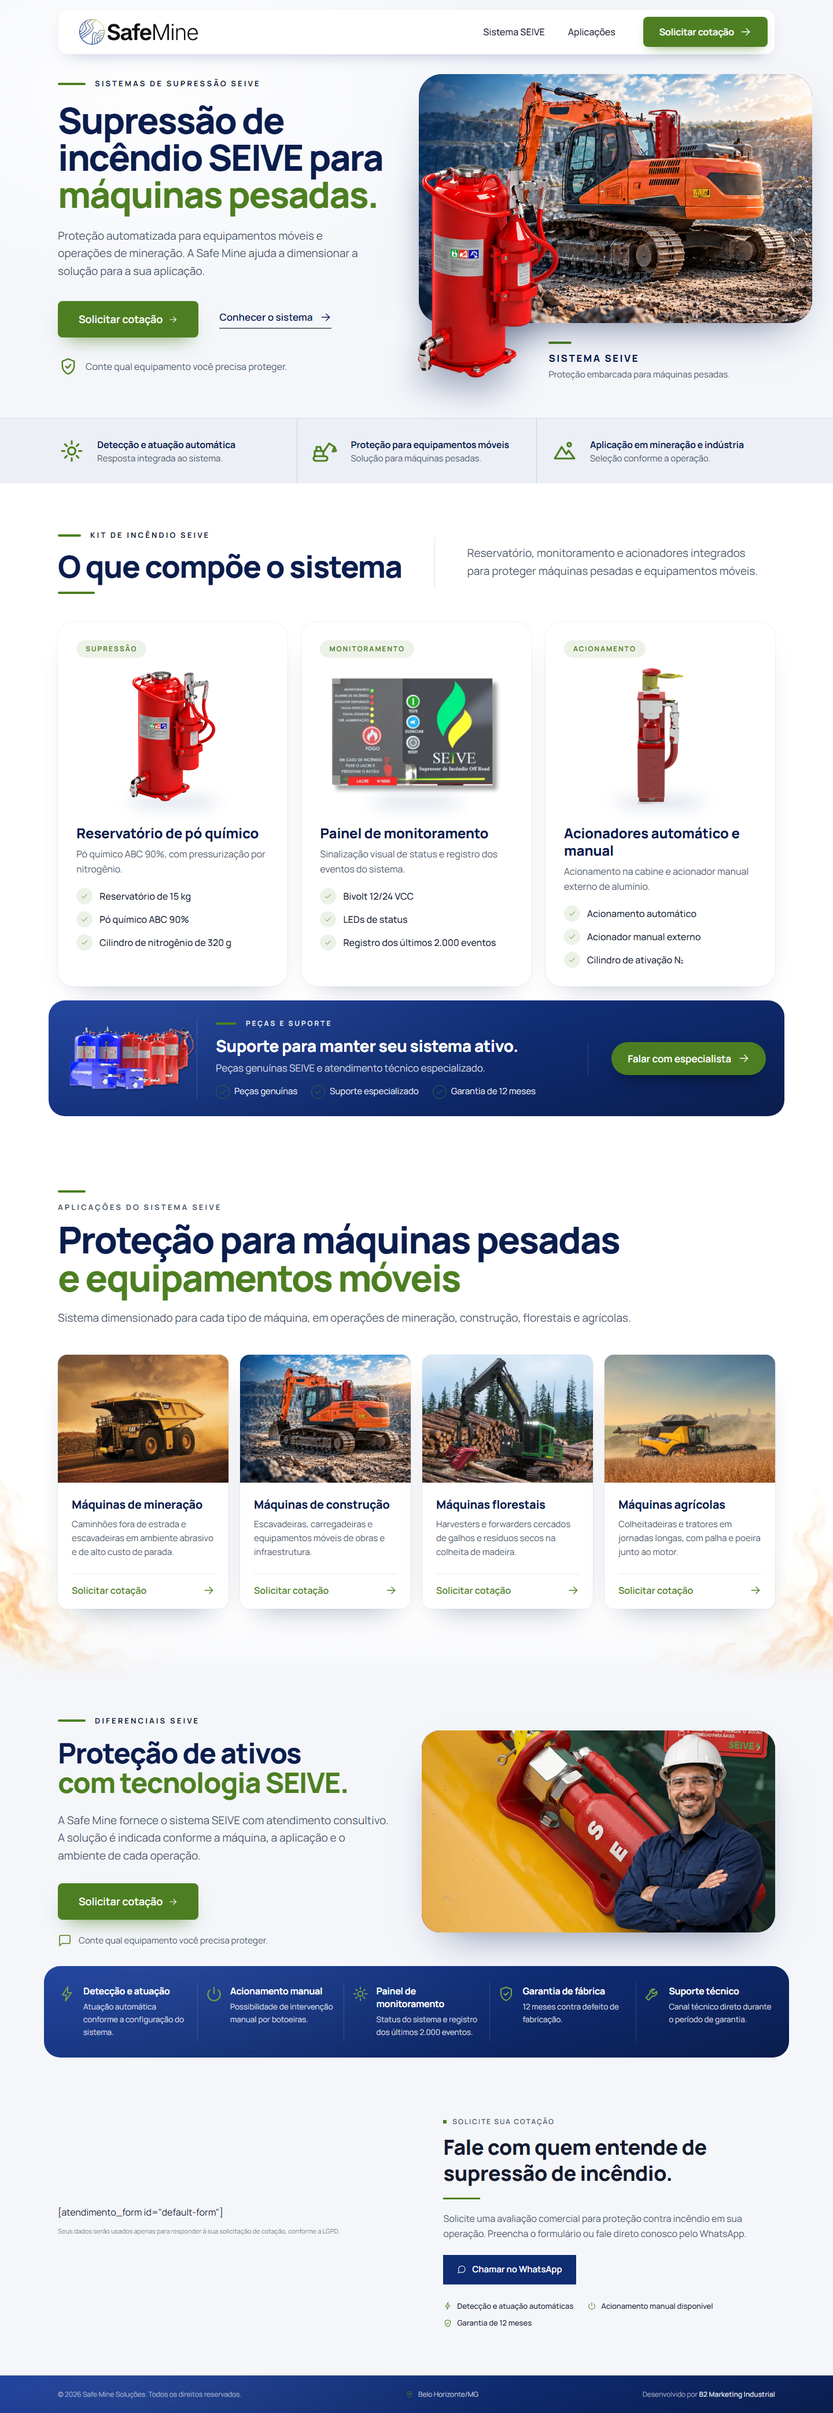
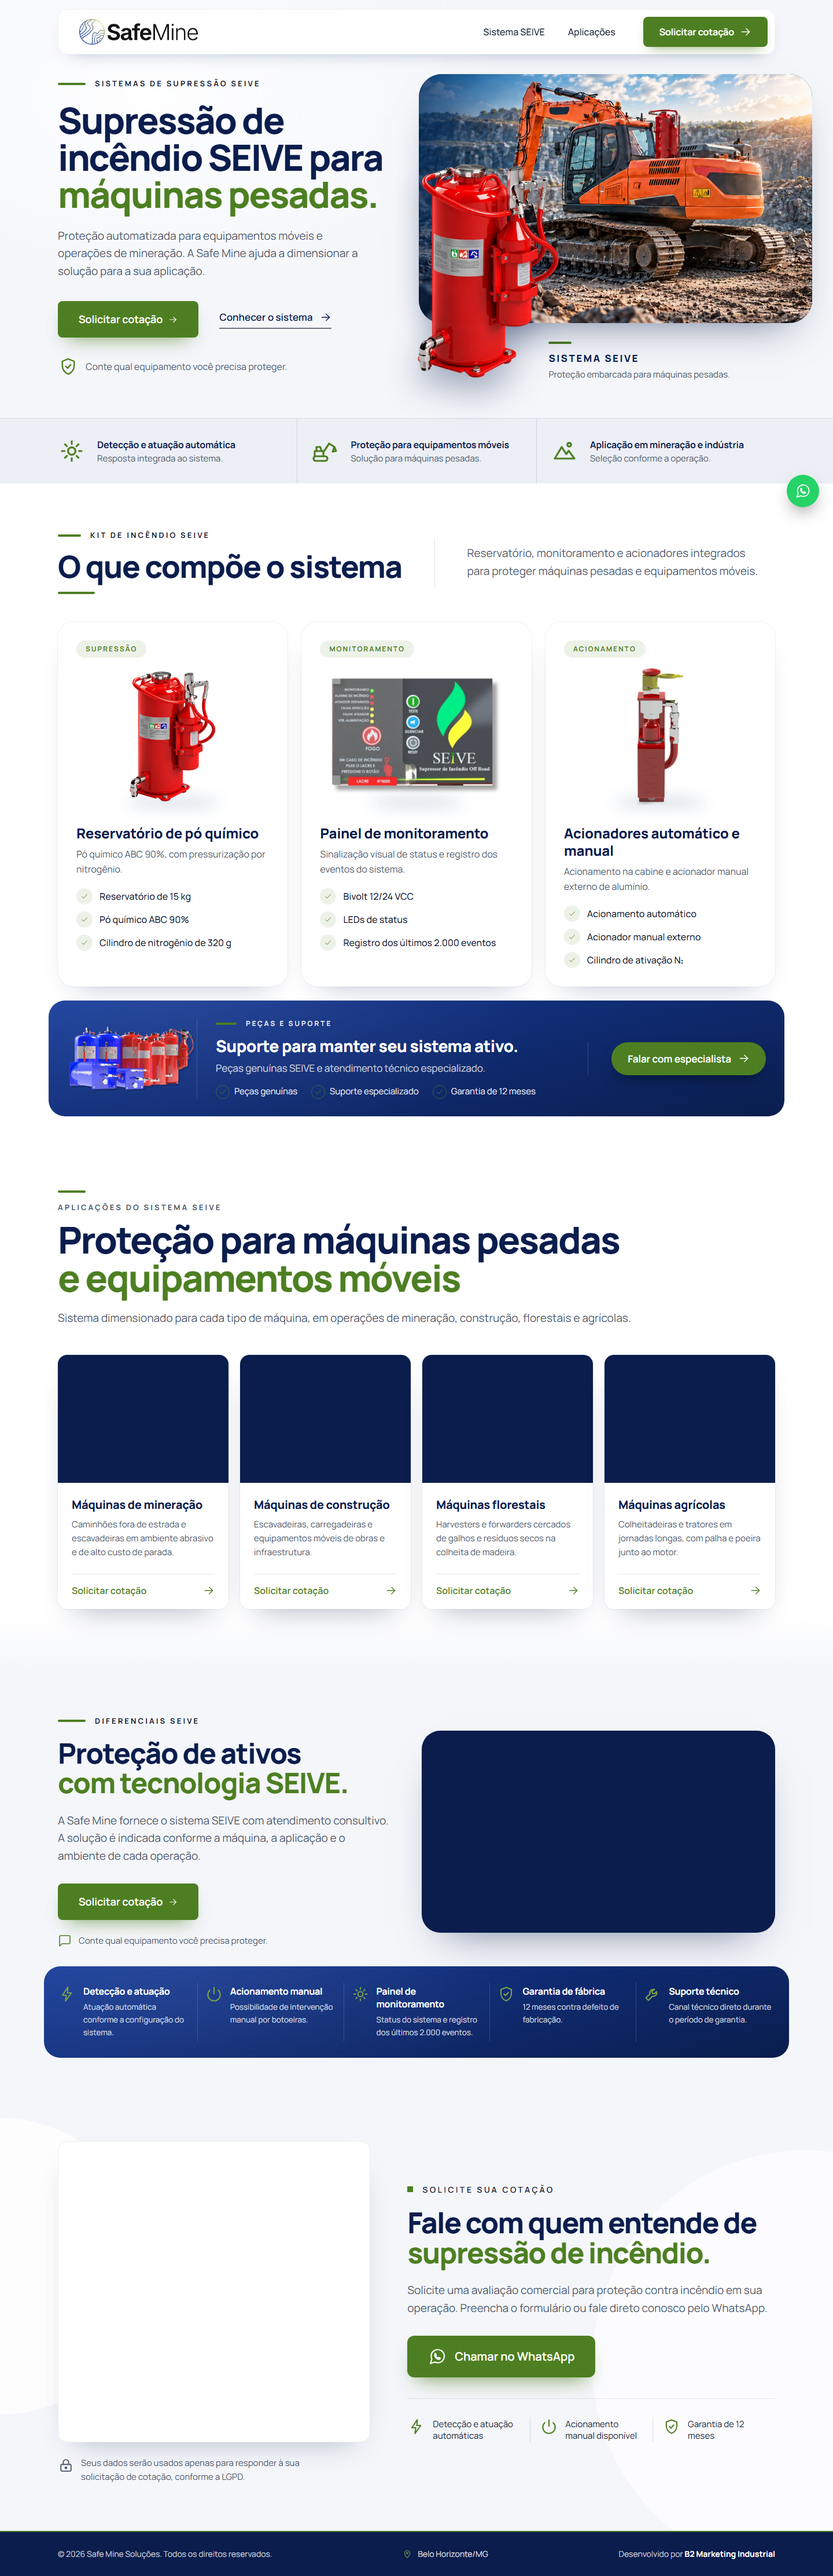
feat: cotação e rodapé no mockup da Safe Mine
Formulário (shortcode) num card branco, com o texto cru do shortcode
escondido fora do WordPress; nota de LGPD com cadeado. Título com a
segunda linha em verde, botão de WhatsApp verde com o ícone do app e três
selos com ícones e divisórias; formas claras suaves ao fundo. Rodapé navy
sólido com filete verde. Ícones novos/atualizados: lock, whatsapp.
A8 repinada; desvio registrado no BRIEFING.md.

diff --git a/src/data/icons.ts b/src/data/icons.ts
@@ -77,7 +77,8 @@ export const iconPaths = {
   instagram:
     '<rect x="2" y="2" width="20" height="20" rx="5"/><path d="M16 11.37A4 4 0 1 1 12.63 8 4 4 0 0 1 16 11.37z"/><path d="M17.5 6.5h.01"/>',
   whatsapp:
-    '<path d="M21 11.5a8.38 8.38 0 0 1-.9 3.8 8.5 8.5 0 0 1-7.6 4.7 8.38 8.38 0 0 1-3.8-.9L3 21l1.9-5.7a8.38 8.38 0 0 1-.9-3.8 8.5 8.5 0 0 1 4.7-7.6 8.38 8.38 0 0 1 3.8-.9h.5a8.48 8.48 0 0 1 8 8v.5z"/>',
+    '<path d="M21 11.5a8.38 8.38 0 0 1-.9 3.8 8.5 8.5 0 0 1-7.6 4.7 8.38 8.38 0 0 1-3.8-.9L3 21l1.9-5.7a8.38 8.38 0 0 1-.9-3.8 8.5 8.5 0 0 1 4.7-7.6 8.38 8.38 0 0 1 3.8-.9h.5a8.48 8.48 0 0 1 8 8v.5z"/><path d="M8.8 8.3c.3-.4.8-.4 1 .1l.6 1.4c.1.3 0 .6-.2.8l-.5.5a5.6 5.6 0 0 0 2.9 2.9l.5-.5c.2-.2.5-.3.8-.2l1.4.6c.5.2.5.7.1 1-.7.6-1.7.9-2.7.5a7 7 0 0 1-3.9-3.9c-.4-1-.1-2 .5-2.7z"/>',
+  lock: '<rect x="4.5" y="10.5" width="15" height="10" rx="2"/><path d="M8 10.5v-3a4 4 0 0 1 8 0v3"/><circle cx="12" cy="15.5" r="1.2"/>',
   shield:
     '<path d="M12 3.3 5.2 6v5.3c0 4.2 2.8 7.9 6.8 9.4 4-1.5 6.8-5.2 6.8-9.4V6L12 3.3Z"/><path d="m9.2 11.9 2 2 3.6-4"/>',
   truck:

diff --git a/src/data/content.ts b/src/data/content.ts
@@ -108,6 +108,8 @@ export const hero = {
 export const quote = {
   eyebrow: 'Solicite sua cotação',
   title: 'Fale com quem entende de supressão de incêndio.',
+  /** Trecho do título que sai em verde, numa segunda linha (mockup da cotação). */
+  highlight: 'supressão de incêndio.',
   text: 'Solicite uma avaliação comercial para proteção contra incêndio em sua operação. Preencha o formulário ou fale direto conosco pelo WhatsApp.',
   trust: [
     { icon: 'zap', label: 'Detecção e atuação automáticas' },
@@ -119,6 +121,7 @@ export const quote = {
 } as const satisfies {
   eyebrow: string
   title: string
+  highlight: string
   text: string
   trust: readonly [TrustItem, TrustItem, TrustItem]
   lgpd: string

diff --git a/src/styles/global.css b/src/styles/global.css
@@ -22,7 +22,7 @@
   --color-neutral-gray-200: #a0a0a0;
   --color-ink: #141c2e;
   --color-ink-soft: #48536a;
-  /* Verde original da Safe Mine: só para ícones sobre a barra navy dos diferenciais. */
+  /* Verde original da Safe Mine: só para ícones sobre fundo navy (barra dos diferenciais e rodapé). */
   --color-brand-green: #7ba249;
 
   --container-page: 1320px;

diff --git a/docs/BRIEFING.md b/docs/BRIEFING.md
@@ -192,8 +192,18 @@ A pedido do usuário, `src/components/sections/WhyBrand.astro` (seção `diferen
 - À direita, a foto do acionador (`cenario.jpg`) em card arredondado, com o técnico (`pessoa.png`) sobreposto na metade direita, do capacete ao quadril.
 - Os 5 diferenciais saíram dos cards sobrepostos e foram para uma barra navy abaixo — é o bloco navy da segunda metade da página. Cinco lado a lado a partir de 1280 px; abaixo disso, duas colunas e, no celular, uma. O ícone do painel passou de `cpu` para `gear`, como no mockup.
 - O container da página (1320 px) é mais estreito que o do mockup: na barra, ícone, espaçamento e texto foram reduzidos para as descrições caberem em duas linhas.
-- Token novo: `--color-brand-green` (#7ba249), só para os ícones sobre a barra navy.
+- Token novo: `--color-brand-green` (#7ba249), só para ícones sobre fundo navy (barra dos diferenciais e rodapé).
 - **Atenção:** `npm run compose` sobrescreve este componente com o da biblioteca.
+
+## Desvio aprovado: cotação e rodapé no mockup da Safe Mine (30/10/2026)
+
+A pedido do usuário, `QuoteForm.astro` e `Footer.astro` (estrutura fixa) seguem o mockup "Premium fire suppression quote section.png":
+
+- Cotação: fundo claro com duas formas claras bem suaves; grid `0.85fr · 1fr`. O slot do formulário fica num card branco arredondado; fora do WordPress o texto cru do shortcode é escondido por CSS e o card fica vazio, como no mockup. Abaixo, a nota de LGPD com ícone de cadeado (ícone novo `lock`).
+- À direita: eyebrow com quadrado verde, título em duas linhas com "supressão de incêndio." em verde (`quote.highlight`), texto, botão "Chamar no WhatsApp" **verde** com o ícone do WhatsApp (o padrão pedia navy para não competir com o envio do formulário; o mockup pede verde) e os três selos com ícones grandes e divisórias.
+- O ícone `whatsapp` ganhou o fone dentro do balão, como no mockup — vale também para o botão flutuante.
+- Rodapé: navy sólido (`primary-dark-900`) com filete verde de 2px no topo, no lugar do `navy-premium`; mesma linha copyright · endereço · crédito da B2.
+- A assinatura A8 de `scripts/check-lp.mjs` foi repinada para a cotação e o rodapé.
 
 ## Desvios técnicos da execução
 
